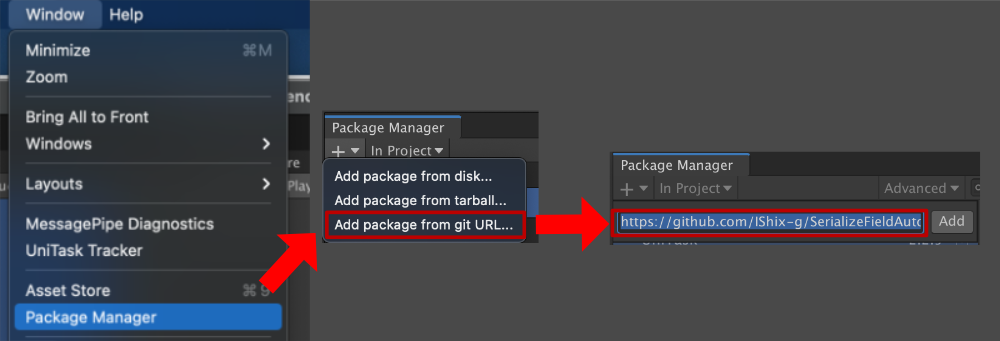
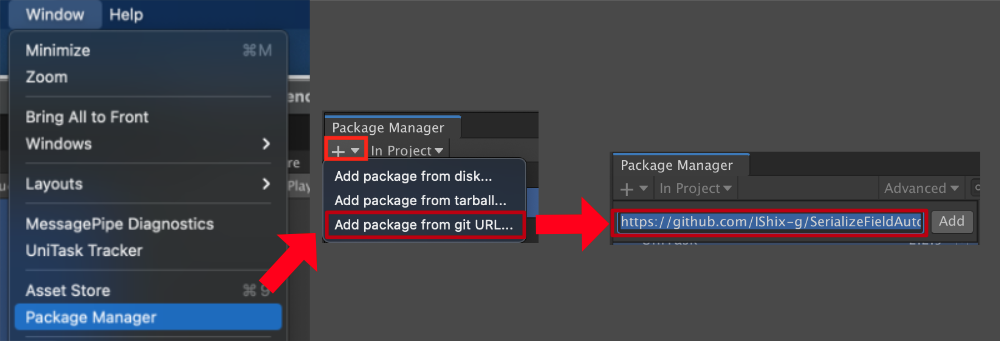
refactor: remove debug log and improve README formatting

Changed region(s): [[0.527, 0.5865, 0.62, 0.7331], [0.248, 0.6745, 0.341, 0.8504], [0.31, 0.3812, 0.372, 0.4692]]

diff --git a/Packages/SMCPConfigurator/Editor/SMCPConfiguratorWindow.cs b/Packages/SMCPConfigurator/Editor/SMCPConfiguratorWindow.cs
@@ -279,7 +279,6 @@ namespace SMCPConfigurator.Editor
             for (var i = 1; i < folders.Length; i++)
             {
                 var newFolder = parentFolder + "/" + folders[i];
-                Debug.Log(newFolder + " : " + AssetDatabase.IsValidFolder(newFolder));
                 if (!AssetDatabase.IsValidFolder(newFolder))
                 {
                     AssetDatabase.CreateFolder(parentFolder, folders[i]);

diff --git a/README.md b/README.md
@@ -12,7 +12,9 @@ For more information, please click [here](#SMCP-architecture).
 ## Install via git URL
 Please add the URL to "Window > Package Manager > Add package from git URL...".
 
-URL: `https://github.com/IShix-g/SMCP-Configurator.git?path=Packages/SMCPConfigurator`
+```
+https://github.com/IShix-g/SMCP-Configurator.git?path=Packages/SMCPConfigurator
+```
 
 ![Package Manager](Docs/package_manager.png)
 

diff --git a/README_jp.md b/README_jp.md
@@ -15,7 +15,9 @@
 
 "Unity Editor : Window > Package Manager > Add package from git URL...".
 
-URL: `https://github.com/IShix-g/SMCP-Configurator.git?path=Packages/SMCPConfigurator`
+```
+https://github.com/IShix-g/SMCP-Configurator.git?path=Packages/SMCPConfigurator
+```
 
 ![Package Manager](Docs/package_manager.png)
 
